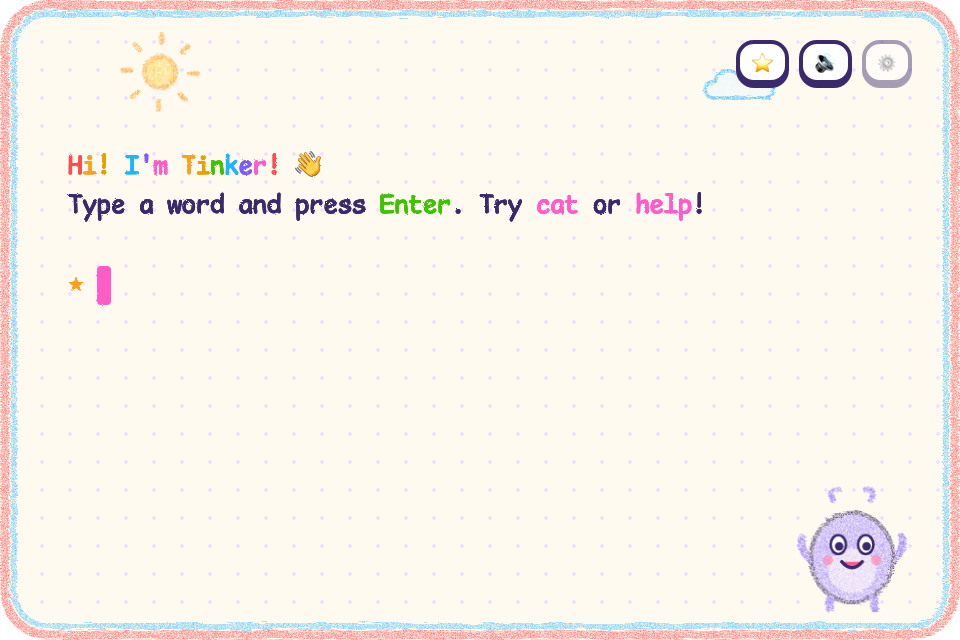
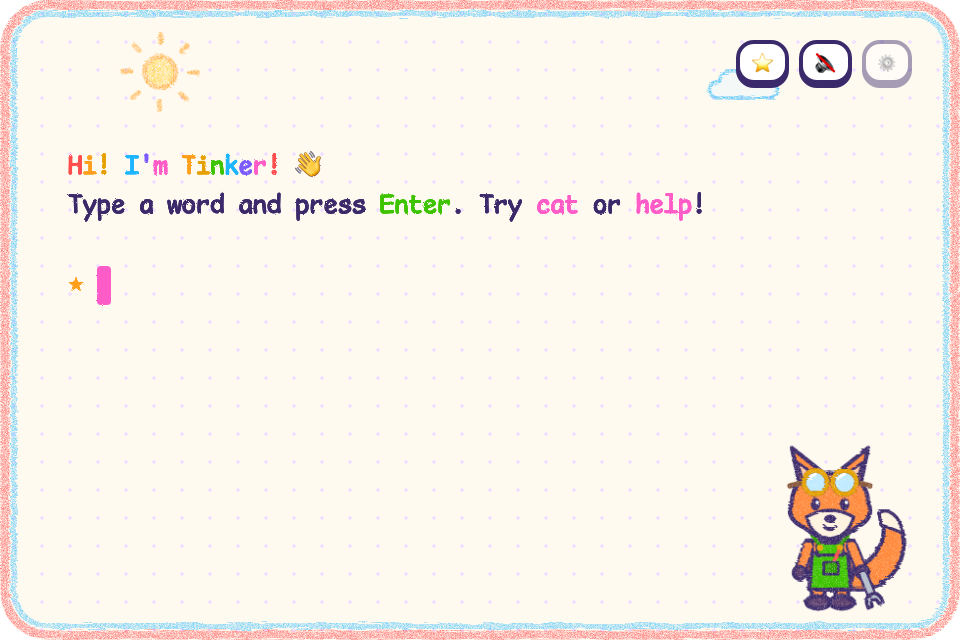
docs: README buddies section and screenshot with Tinker the fox

diff --git a/README.md b/README.md
@@ -29,7 +29,7 @@ Type `theme` in the toy shell, or pick one under the grown-up corner's Look sett
 
 | Theme | Ages | What it is |
 | --- | --- | --- |
-| Crayon Box | 2-5 | wax crayons, sunny sky, and Tinker |
+| Crayon Box | 2-5 | wax crayons, sunny sky, and Tinker the fox (or another buddy) |
 | Toy Workshop | 4-7 | gears, buttons, beads, and Bolt the wind-up robot |
 | Paint Studio | 5-9 | a goofy paint program with stamps, spray cans and dynamite |
 | Block World | 6-9 | build in a pixel world, fill your hotbar with Bloop |
@@ -38,6 +38,19 @@ Type `theme` in the toy shell, or pick one under the grown-up corner's Look sett
 | Mission Control | 9-13 | flight console, live telemetry, CAPCOM on the radio |
 | Retro Arcade | 9-14 | neon cabinet, high scores, and Blip the pixel bot |
 | Pro Studio | 11+ | a sleek dev terminal, like the pros use |
+
+### Buddies
+
+Crayon Box comes with five buddies; pick one under the grown-up corner's Buddy setting. Each has its own pose
+for every mood (idle, happy, thinking, dancing, waving, wow, asleep).
+
+| Buddy | Who they are |
+| --- | --- |
+| Tinker | a fox kit in overalls and too-big goggles who fixes things (the default, and the app icon) |
+| Sprocket | a wind-up tin robot whose face is a tiny terminal screen |
+| Stubby | the shortest crayon in the box, leaving a scribble wherever it goes |
+| Shelly | a hermit crab with a sticker-covered shell |
+| Sniffles | a baby dragon, still in half an eggshell, who sneezes letters instead of fire |
 
 Each theme has its own font, colors, sounds, wording and sidekick. A theme is one folder in `src/themes/`; see
 `src/theme-api.ts` for what it can define.
